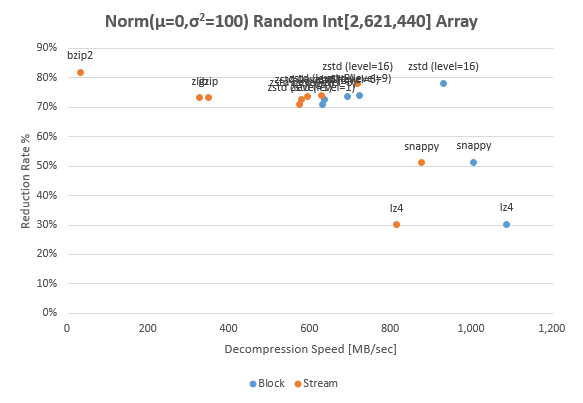
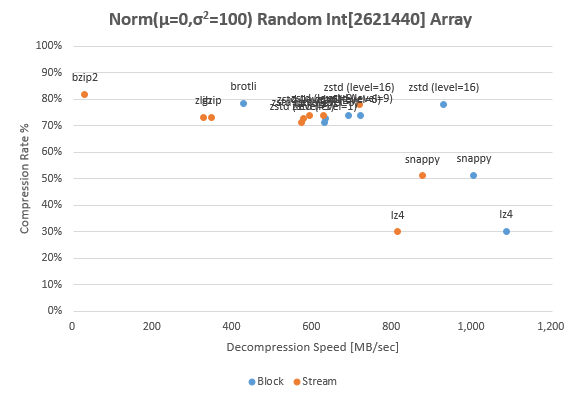
update document

diff --git a/benchmark/amd64_windows10_20180322.md b/benchmark/amd64_windows10_20180322.md
@@ -6,7 +6,7 @@
 
 <div><small><b>Block Size</b>: 10.0MB, <b>Block Entropy</b>: 0.0004, <b>Filled By</b>: <code>0</code>, <b>Sample Bytes</b>: <small>00 00 00 00 00 00 00 00 00 00 00 00 00 00 00...</small> </small></div>
 
-| Name | Version | Method | Rate | Compress <small>[MB/sec]</small> | Decompress <small>[MB/sec]</small> |     |
+| Name | Version | Method | Ratio | Compress <small>[MB/sec]</small> | Decompress <small>[MB/sec]</small> |     |
 |:-----|:--------|:-------|-----:|---------------------------------:|-----------------------------------:|:----|
 | java:*uncompress* | Java 1.8.0_162 | block | 0.0% | 8,537.0 | 8,362.3 | ✔ |
 | java:*uncompress* | Java 1.8.0_162 | stream | 0.0% | 8,440.2 | 5,891.8 | ✔ |
@@ -27,12 +27,13 @@
 | java:zlib | Java 1.8.0_162 | stream | 99.90% | 199.9 | 568.2 | ✔ |
 | java:gzip | Java 1.8.0_162 | stream | 99.90% | 206.2 | 655.7 | ✔ |
 | org.apache.commons:commons-compress (bzip2) | 1.16.1 | stream | 99.9995% | 86.4 | 221.4 | ✔ |
+| org.meteogroup.jbrotli:jbrotli | 0.5.0 | block | 99.999% | 13.4 | 798.8 | ✔ |
 
 ## Uniform Random filled `Byte[10485760]` Array
 
 <div><small><b>Block Size</b>: 10.0MB, <b>Block Entropy</b>: 5.545, <b>Filled By</b>: <code>random.nextByte()</code>, <b>Sample Bytes</b>: <small>22 A9 D8 EE 78 07 C8 EA 8E 79 45 D5 89 EF A4...</small> </small></div>
 
-| Name | Version | Method | Rate | Compress <small>[MB/sec]</small> | Decompress <small>[MB/sec]</small> |     |
+| Name | Version | Method | Ratio | Compress <small>[MB/sec]</small> | Decompress <small>[MB/sec]</small> |     |
 |:-----|:--------|:-------|-----:|---------------------------------:|-----------------------------------:|:----|
 | java:*uncompress* | Java 1.8.0_162 | block | 0.0% | 7,858.0 | 7,798.2 | ✔ |
 | java:*uncompress* | Java 1.8.0_162 | stream | 0.0% | 7,735.2 | 5,433.9 | ✔ |
@@ -53,12 +54,13 @@
 | java:zlib | Java 1.8.0_162 | stream | -0.03% | 41.4 | 861.1 | ✔ |
 | java:gzip | Java 1.8.0_162 | stream | -0.03% | 41.7 | 972.1 | ✔ |
 | org.apache.commons:commons-compress (bzip2) | 1.16.1 | stream | -0.4% | 5.1 | 13.7 | ✔ |
+| org.meteogroup.jbrotli:jbrotli | 0.5.0 | block | -0.0003% | 1.1 | 3,307.3 | ✔ |
 
 ## Norm(μ=0,σ<sup>2</sup>=100) Random `Int[2621440]` Array
 
 <div><small><b>Block Size</b>: 10.0MB, <b>Block Entropy</b>: 1.871, <b>Filled By</b>: <code>μ + random.nextGaussian() × σ</code>, <b>Sample Bytes</b>: <small>FF FF FF F9 FF FF FF F5 FF FF FF EC FF FF FF...</small> </small></div>
 
-| Name | Version | Method | Rate | Compress <small>[MB/sec]</small> | Decompress <small>[MB/sec]</small> |     |
+| Name | Version | Method | Ratio | Compress <small>[MB/sec]</small> | Decompress <small>[MB/sec]</small> |     |
 |:-----|:--------|:-------|-----:|---------------------------------:|-----------------------------------:|:----|
 | java:*uncompress* | Java 1.8.0_162 | block | 0.0% | 8,388.0 | 8,775.1 | ✔ |
 | java:*uncompress* | Java 1.8.0_162 | stream | 0.0% | 9,233.1 | 5,872.4 | ✔ |
@@ -79,12 +81,13 @@
 | java:zlib | Java 1.8.0_162 | stream | 73.3% | 8.8 | 325.4 | ✔ |
 | java:gzip | Java 1.8.0_162 | stream | 73.3% | 8.9 | 346.9 | ✔ |
 | org.apache.commons:commons-compress (bzip2) | 1.16.1 | stream | 81.9% | 6.3 | 29.0 | ✔ |
+| org.meteogroup.jbrotli:jbrotli | 0.5.0 | block | 78.5% | 0.4 | 426.2 | ✔ |
 
 ## Norm(μ=0,σ<sup>2</sup>=1) Random `Double[1310720]` Array
 
 <div><small><b>Block Size</b>: 10.0MB, <b>Block Entropy</b>: 5.284, <b>Filled By</b>: <code>μ + random.nextGaussian() × σ</code>, <b>Sample Bytes</b>: <small>BF E7 C1 96 29 AB 48 65 BF F2 1A 9C 95 29 D6...</small> </small></div>
 
-| Name | Version | Method | Rate | Compress <small>[MB/sec]</small> | Decompress <small>[MB/sec]</small> |     |
+| Name | Version | Method | Ratio | Compress <small>[MB/sec]</small> | Decompress <small>[MB/sec]</small> |     |
 |:-----|:--------|:-------|-----:|---------------------------------:|-----------------------------------:|:----|
 | java:*uncompress* | Java 1.8.0_162 | block | 0.0% | 9,387.0 | 8,895.0 | ✔ |
 | java:*uncompress* | Java 1.8.0_162 | stream | 0.0% | 9,074.1 | 6,082.4 | ✔ |
@@ -105,12 +108,13 @@
 | java:zlib | Java 1.8.0_162 | stream | 3.9% | 25.5 | 191.4 | ✔ |
 | java:gzip | Java 1.8.0_162 | stream | 3.9% | 25.0 | 195.0 | ✔ |
 | org.apache.commons:commons-compress (bzip2) | 1.16.1 | stream | 3.2% | 5.6 | 14.8 | ✔ |
+| org.meteogroup.jbrotli:jbrotli | 0.5.0 | block | 4.4% | 0.4 | 96.1 | ✔ |
 
 ## CSV Formatted Text of Random Floating-Point Values, ASCII Text
 
 <div><small><b>Block Size</b>: 10.0MB, <b>Block Entropy</b>: 2.461, <b>Filled By</b>: <code>0.932993485288541,0.8330913489710237,0.32647575623...</code>, <b>Sample Bytes</b>: <small>30 2E 39 33 32 39 39 33 34 38 35 32 38 38 35...</small> </small></div>
 
-| Name | Version | Method | Rate | Compress <small>[MB/sec]</small> | Decompress <small>[MB/sec]</small> |     |
+| Name | Version | Method | Ratio | Compress <small>[MB/sec]</small> | Decompress <small>[MB/sec]</small> |     |
 |:-----|:--------|:-------|-----:|---------------------------------:|-----------------------------------:|:----|
 | java:*uncompress* | Java 1.8.0_162 | block | 0.0% | 8,717.0 | 8,741.1 | ✔ |
 | java:*uncompress* | Java 1.8.0_162 | stream | 0.0% | 8,866.0 | 6,005.4 | ✔ |
@@ -131,6 +135,7 @@
 | java:zlib | Java 1.8.0_162 | stream | 54.2% | 11.9 | 207.9 | ✔ |
 | java:gzip | Java 1.8.0_162 | stream | 54.2% | 11.9 | 216.4 | ✔ |
 | org.apache.commons:commons-compress (bzip2) | 1.16.1 | stream | 60.0% | 8.3 | 19.3 | ✔ |
+| org.meteogroup.jbrotli:jbrotli | 0.5.0 | block | 58.3% | 0.4 | 132.5 | ✔ |
 
 ## United States Declaration of Independence, ASCII Text
 
@@ -138,7 +143,7 @@
 THE UNANIMOUS
 DECLARATI...</code>, <b>Sample Bytes</b>: <small>49 4E 20 43 4F 4E 47 52 45 53 53 2C 20 4A 55...</small> </small></div>
 
-| Name | Version | Method | Rate | Compress <small>[MB/sec]</small> | Decompress <small>[MB/sec]</small> |     |
+| Name | Version | Method | Ratio | Compress <small>[MB/sec]</small> | Decompress <small>[MB/sec]</small> |     |
 |:-----|:--------|:-------|-----:|---------------------------------:|-----------------------------------:|:----|
 | java:*uncompress* | Java 1.8.0_162 | block | 0.0% | 70,186.7 | 88,299.6 | ✔ |
 | java:*uncompress* | Java 1.8.0_162 | stream | 0.0% | 64,286.8 | 13,451.4 | ✔ |
@@ -159,12 +164,13 @@ DECLARATI...</code>, <b>Sample Bytes</b>: <small>49 4E 20 43 4F 4E 47 52 45 53 5
 | java:zlib | Java 1.8.0_162 | stream | 54.3% | 33.4 | 157.1 | ✔ |
 | java:gzip | Java 1.8.0_162 | stream | 54.1% | 21.0 | 116.6 | ✔ |
 | org.apache.commons:commons-compress (bzip2) | 1.16.1 | stream | 57.8% | 3.6 | 20.1 | ✔ |
+| org.meteogroup.jbrotli:jbrotli | 0.5.0 | block | 63.8% | 0.8 | 192.5 | ✔ |
 
 ## 夏目漱石 こころ, Japanese UTF-8 Text
 
 <div><small><b>Block Size</b>: 473.2kB, <b>Block Entropy</b>: 3.182, <b>Filled By</b>: <code>　私はその人を常に先生と呼んでいた。だからここでも...</code>, <b>Sample Bytes</b>: <small>E3 80 80 E7 A7 81 E3 81 AF E3 81 9D E3 81 AE...</small> </small></div>
 
-| Name | Version | Method | Rate | Compress <small>[MB/sec]</small> | Decompress <small>[MB/sec]</small> |     |
+| Name | Version | Method | Ratio | Compress <small>[MB/sec]</small> | Decompress <small>[MB/sec]</small> |     |
 |:-----|:--------|:-------|-----:|---------------------------------:|-----------------------------------:|:----|
 | java:*uncompress* | Java 1.8.0_162 | block | 0.0% | 25,456.1 | 24,928.1 | ✔ |
 | java:*uncompress* | Java 1.8.0_162 | stream | 0.0% | 25,433.8 | 11,426.4 | ✔ |
@@ -185,4 +191,5 @@ DECLARATI...</code>, <b>Sample Bytes</b>: <small>49 4E 20 43 4F 4E 47 52 45 53 5
 | java:zlib | Java 1.8.0_162 | stream | 68.5% | 15.4 | 252.8 | ✔ |
 | java:gzip | Java 1.8.0_162 | stream | 68.5% | 15.5 | 264.1 | ✔ |
 | org.apache.commons:commons-compress (bzip2) | 1.16.1 | stream | 78.7% | 11.3 | 29.5 | ✔ |
+| org.meteogroup.jbrotli:jbrotli | 0.5.0 | block | 74.6% | 0.5 | 434.2 | ✔ |
 

diff --git a/README.md b/README.md
@@ -1,6 +1,6 @@
 # JavaVM Compression Libraries Benchmark &amp; Comparison
 
-The purpose of this repository is to decide a compression algorithm suitable for the data characteristics and performance of interest.
+The purpose of this repository is to decide a suitable compression algorithm for the data characteristics and performance of interest.
 
 Compression algorithms that be able to used with JavaVM include those that give priority to compression ratio, those that priority to speed, others that are already obsolete. Generally, modern algorithm implementations use JNI. They are faster and higher compression ratios than Java standard GZIP (although, portability and stability are reduced).
 
@@ -13,30 +13,34 @@ In this benchmark, the API that compresses from `byte[]` to `byte[]` and the API
 The **java:*uncompress*** doesn't compress or expand binary, only copy between buffer and buffer with `System.arraycopy()`. This is logically the fastest algorithm running on its JavaVM, so this can be considered as pure overhead. The implementation that using JNI can be faster than this.
 
 The **java:zlib** (deflate) and **java:gzip** are well-known Java standard compression APIs.
+In addition, this test benchmarks [Snappy](https://github.com/google/snappy), [lz4](https://github.com/lz4/lz4), [Brotli](https://github.com/google/brotli) and [ZStandard](https://github.com/facebook/zstd).
 
 The ZStandard implementation of Apache Commons Compress depends on `luben/zstd-jni`. So, this benchmark uses only `zstd-jni`.
 
-### Norm(μ=0,σ<sup>2</sup>=100) Random `Int[]`
+
+### Numeric-Type Array Compression
 
 ![Int Array Compression for Norm](benchmark/20180322_norn-int.png)
 
-In this benchmark, an `Int[]` of 2.6M length that filled with Normal (Gaussian) random numbers with average μ=0, variance σ<sup>2</sup>=100 are converted into a 10MB binary with Big Endianness. This means that 68% of all `Int` elements are included in range of ±10, and 95% are included in the range of ±20. In other words, almost all values are represented within 1 byte, the remaining 3 bytes are `0x00` or `0xFF`.
+In this benchimark, an `Int[]` of 2.6M length that filled with Normal (Gaussian) random numbers with average μ=0, variance σ<sup>2</sup>=100 are converted into a 10MB binary with Big Endianness. This means that 68% of all `Int` elements are included in range of ±10, and 95% are included in the range of ±20. In other words, almost all values are represented within 1 byte, the remaining 3 bytes are `0x00` or `0xFF`.
 
-The compression rates for such a binary is very high, and 70-80% has been reduced in GZIP, BZIP2 and ZStandard.
+In such a binary, all algorithms show higher compression ratio characteristics in particular 70-80% has been reduced in GZIP, BZIP2, Brotli and ZStandard. Also the deference between the low-speed/high-ratio (LSHR) types and the high-speed/low-ratio (HSLR) types is reduced in term of speed and the superiority of HSLR type becomes lower.
+
+![Int Array Compression for Norm](benchmark/20180322_norn-double.png)
+
+The IEEE 754 binary of double-precision floating point has higher randomness and entropy. For this reason, the compression ratios of HSLR algorithms are minus (that is, increase), and the LSHRs are also only less than 5%.
 
 ### Text Compression
 
 ![US-ASCII Text Compression](benchmark/20180322_us-ascii.png)
 
 The us-ascii text fits all characters between 0x00 and 0x7F.
-The through put of the high-speed low compression rate algorithm such as lz4 and snappy is remarkable.
+The through put of the high-speed low compression ratio algorithm such as lz4 and snappy is remarkable.
 
 ![UTF-8 Text Compression](benchmark/20180322_utf-8.png)
 
-Likewise, even in utf-8 text, the characteristics of the high-speed low compression rate algorithm and the low-speed high compression rate algorithm are remarkable.
-In the case of text data, it seems that lz4 for speed priority and ZStandard for compression rate priority are better.
-
-### Other Benchmarks
+Likewise, even in utf-8 text, the characteristics of the high-speed low compression ratio algorithm and the low-speed high compression ratio algorithm are remarkable.
+In the case of text data, it seems that lz4 for speed priority and ZStandard for compression ratio priority are better.
 
 ## How to Try Your Benchmark
 
@@ -48,10 +52,21 @@ $ sbt run
 
 Please edit `machine-info.xml` to suit your platform. These properties such as CPU brand are finally embedded in the benchmark report.
 
-In case you will add a benchmark of new binary pattern you wish, add data generation and additional information to [Benchmark.scala](/torao/benchmark.compression/blob/master/src/main/scala/at/hazm/benchmark/compression/Benchmark.scala), and list it in Main.scala. To add a new compression algorithm, create a [Compressor](/torao/benchmark.compression/blob/master/src/main/scala/at/hazm/benchmark/compression/Compressor.scala) subclass as well.
+In case you will add a benchmark of new binary pattern you wish, add data generation and additional information to [Benchmark.scala](/torao/benchmark.compression/blob/master/src/main/scala/at/hazm/benchmark/compression/Benchmark.scala), and list it in Main.scala.
+
+To add a new compression algorithm, please edit dependencies in `build.sbt` and create a [Compressor](/torao/benchmark.compression/blob/master/src/main/scala/at/hazm/benchmark/compression/Compressor.scala) implementation as well.
 
 ### Recognized Issues
 
 In **Snappy**, Apache Commons Compress and xerial snappy-java seems to compete under native library. When using the xerial one after benchmark of Apache's, the JavaVM process abnormally aborted due to an access violation, unexpected buffer corruption, or array length `buffer.length` returns a negative value and so on.
 
-The [**Brotle**](https://github.com/google/brotli) occurs `java.lang.UnsatisfiedLinkError: org.meteogroup.jbrotli.BrotliCompressor.compressBytes(IIII[BII[BII)I` on Windows, so I skipped it.
+The following exception occurs when I give 5MB over compressed data to `BrotliInputStream` in **Brotli** 0.5.0, so the benchmark of Brotli is done only for block.
+
+```
+java.io.IOException: Compressor did not consume all input
+  at org.meteogroup.jbrotli.io.BrotliInputStream.readChunkFromInput(BrotliInputStream.java:107)
+  at org.meteogroup.jbrotli.io.BrotliInputStream.read(BrotliInputStream.java:44)
+  at java.io.InputStream.read(InputStream.java:170)
+  at org.meteogroup.jbrotli.io.BrotliInputStream.read(BrotliInputStream.java:56)
+  ...
+```
